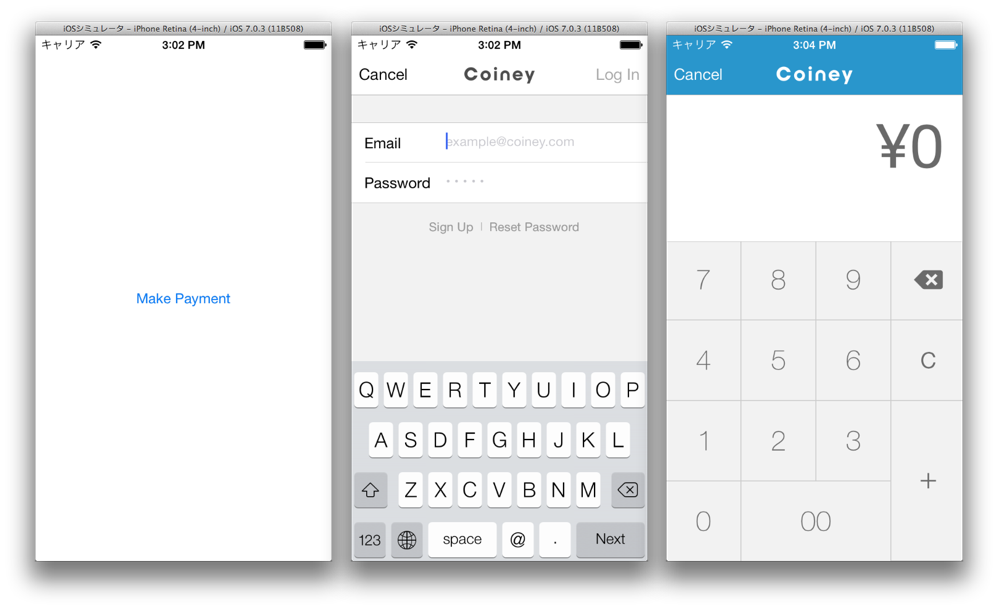
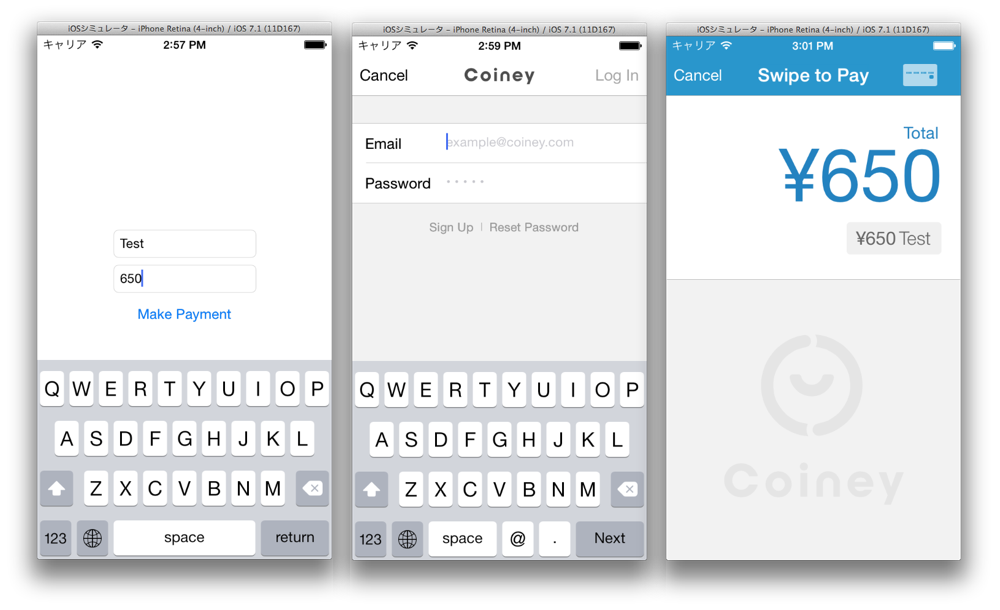
Updated readme.

diff --git a/README.md b/README.md
@@ -38,40 +38,6 @@ Now you're almost ready to make use of CoineyKit, you just need to update your b
 
 Open up `CTViewController.h` and make it look like:
 
-    #import <UIKit/UIKit.h>
-    
-    @interface CTViewController : UIViewController
-    - (IBAction)makePayment:(id)aSender;
-    @end
-    
-And `CTViewController.m`:
-
-    #import "CTViewController.h"
-    @import CoineyKit;
-    
-    @implementation CTViewController
-    
-    - (IBAction)makePayment:(id)aSender
-    {
-        CYCoineyViewController * const coineyController = [CYCoineyViewController new];
-        [self presentViewController:coineyController animated:YES completion:nil];
-    }
-    
-    @end
-    
-
-This is all that's required for the most basic use case. We just need to hook up a button to our `makePayment:` method, and we're ready to go.
-
-![Action connection](.readme_images/action-connection.png)
-
-Now if we run the application it should appear like below:
-
-![App screenshot](.readme_images/simshot1.png)
-
-## Do something a little more realistic
-
-When embedding CoineyKit in your application, you'll most likely want to tell CoineyKit what products you are charging for, and to be notified once the user completes or cancels the payment. Good news: this is trivial to do, simply augment `CTViewController.*` like below:
-
 `CTViewController.h`:
 
     #import <UIKit/UIKit.h>
@@ -106,14 +72,20 @@ When embedding CoineyKit in your application, you'll most likely want to tell Co
     }
     
     @end
-    
-If you now hook up `productNameField` & `productPriceField` to text fields in CTViewController.xib, we will have a functional product input form.
 
-![App screenshot](.readme_images/simshot2.png)
+Now hook up a button to your `makePayment:` method, and text fields to `productNameField` & `productPriceField`.
+
+![Action connection](.readme_images/action-connection.png)
+
+If we run the application it should appear like below:
+
+![App screenshot](.readme_images/simshot1.png)
+
+Swipe your card to make a transaction. That's all that's required for the basic use case.
 
 ## Get notified of the transaction status
 
-To know the status of the transaction you simply make yourself the delegate of your Coiney controller, and it will notify you of its progress.
+To know the status of the transaction you simply make yourself the delegate of your Coiney controller, and it will notify you when a transaction is completed or canceled.
 
 `CTViewController.m`:
 
